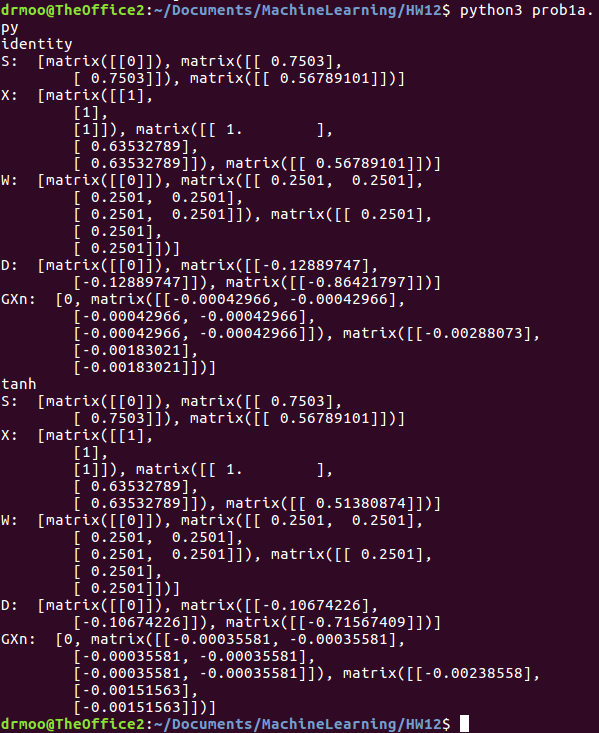
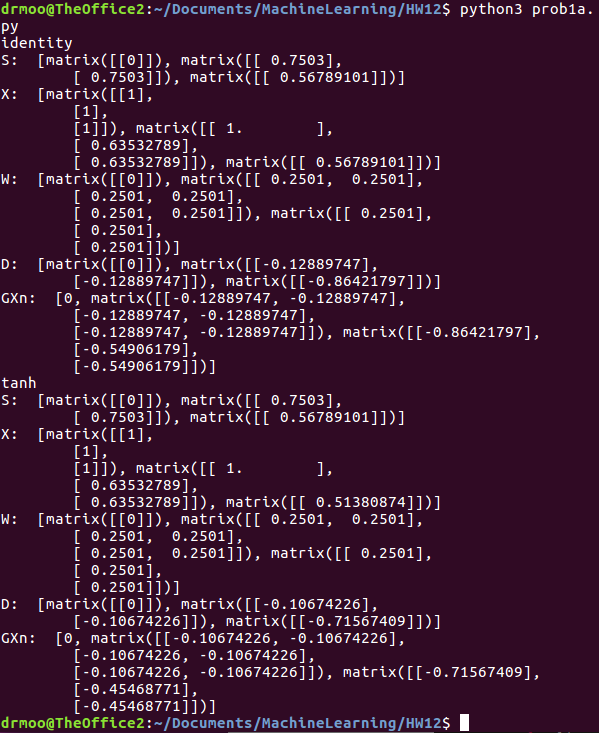
More images

diff --git a/HW12/prob3.py b/HW12/prob3.py
@@ -14,15 +14,15 @@ while (i < 1.1):
 		if (-0.01 < i < 0.01):
 			x_x1.append(i)
 			x_x2.append(j)
-		if (-0.01 < np.power(i,3) - j < 0.01):
-			z_x1.append(i)
-			z_x2.append(j)
+		# if (-0.01 < np.power(i,3) - j < 0.01):
+		# 	z_x1.append(i)
+		# 	z_x2.append(j)
 		j += 0.02
 	i += 0.02
 
 print("x_x1: ", x_x1)
 print("x_x2: ", x_x2)
-blues = plt.plot(x_x1, x_x2, 'bo')
-reds = plt.plot(z_x1, z_x2, 'ro')
+blues = plt.plot(x_x1, x_x2, 'ro')
+reds = plt.plot(z_x1, z_x2, 'bo')
 plt.plot([-1, 1], [0, 0], 'go')
 plt.show()

diff --git a/HW12/prob1a.py b/HW12/prob1a.py
@@ -171,7 +171,7 @@ def gradient_descent_point(x1, y, W, G, final):
 
 	i = 1
 	while (i < len(X)):
-		GXn[i] = (1/300)*(X[i-1]*np.transpose(D[i]))
+		GXn[i] = (X[i-1]*np.transpose(D[i]))
 		i += 1
 
 	print("GXn: ", GXn)

diff --git a/HW12/prob2testW.py b/HW12/prob2testW.py
@@ -248,7 +248,7 @@ def main():
 
 	plot(NNpoints)	
 	plot_points(points)
-	plot_test(points)
+	plot_test(points, W)
 	plt.show()
 
 if __name__ == "__main__":
